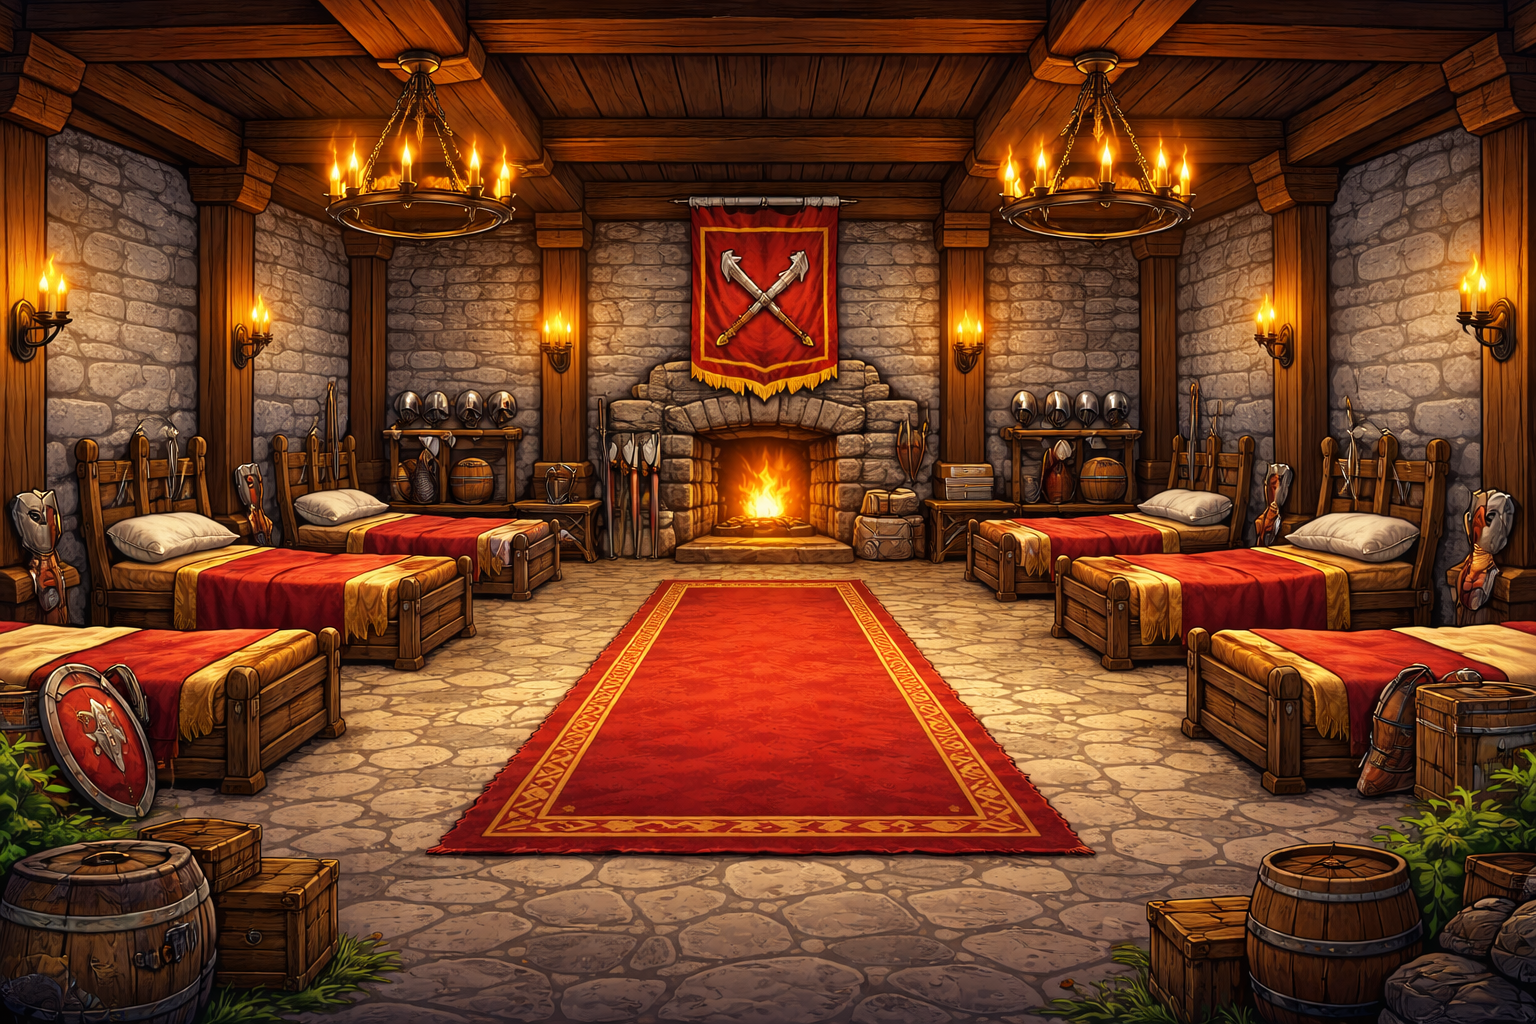
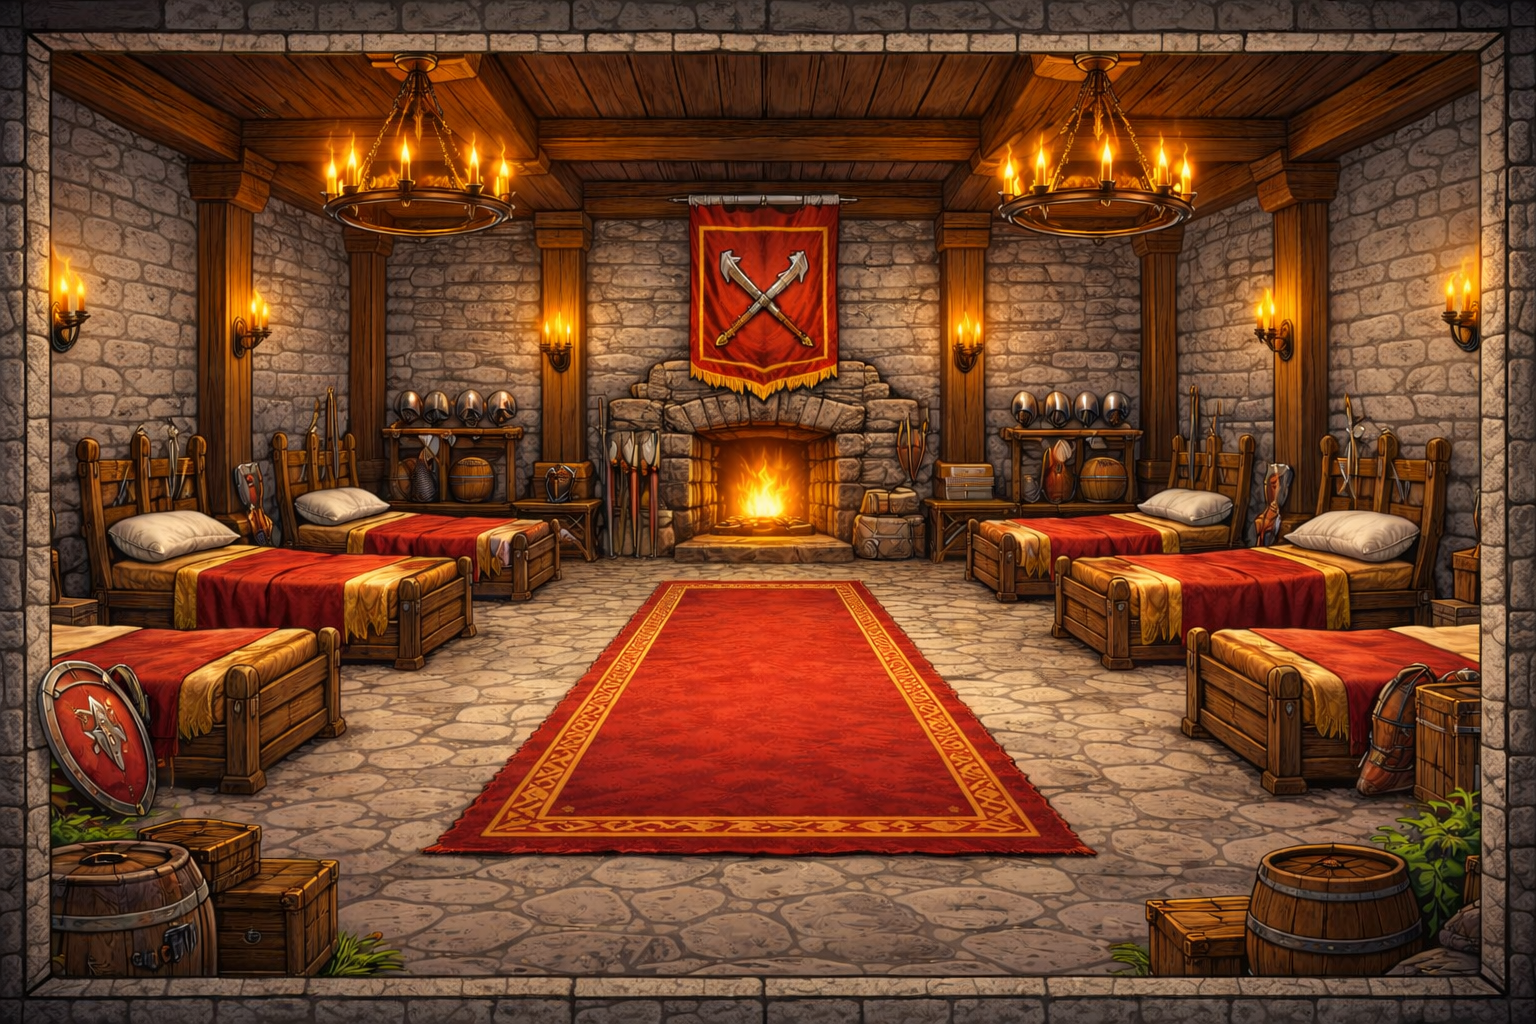
Zacatek Hradu

diff --git a/src/Obrazovky/Tlacitka/StylTlacitek.java b/src/Obrazovky/Tlacitka/StylTlacitek.java
@@ -39,21 +39,46 @@ public class StylTlacitek extends JButton {
         b.setBorderPainted(false);
     }
     public void nastavJakoObrazek(String cestaKObrazku, int sirka, int vyska) {
-        java.net.URL url = getClass().getResource(cestaKObrazku);
-        if (url != null) {
-            ImageIcon originalIkona = new ImageIcon(url);
+        try {
+            java.net.URL url = getClass().getResource(cestaKObrazku);
+            if (url != null) {
+                java.awt.Image original = javax.imageio.ImageIO.read(url);
+                java.awt.Image zmensenyObrazek = original.getScaledInstance(sirka, vyska, java.awt.Image.SCALE_SMOOTH);
+                this.setIcon(new javax.swing.ImageIcon(zmensenyObrazek));
+            } else {
+                System.out.println(cestaKObrazku);
+            }
 
 
-            Image zmensenyObrazek = originalIkona.getImage().getScaledInstance(sirka, vyska, java.awt.Image.SCALE_SMOOTH);
+            this.setText(null);
+            this.setBorderPainted(false);
+            this.setFocusPainted(false);
 
-            this.setIcon(new ImageIcon(zmensenyObrazek));
-        } else {
-            System.out.println("Obrázek tlačítka nenalezen: " + cestaKObrazku);
+
+            this.setContentAreaFilled(false);
+            this.setOpaque(false);
+            this.setPreferredSize(new java.awt.Dimension(sirka, vyska));
+
+        } catch (Exception e) {
+            System.out.println(  e.getMessage());
         }
-
-        this.setText(null);
-        this.setContentAreaFilled(false);
-        this.setBorderPainted(false);
-        this.setFocusPainted(false);
     }
+//    public void nastavJakoObrazek(String cestaKObrazku, int sirka, int vyska) {
+//        java.net.URL url = getClass().getResource(cestaKObrazku);
+//        if (url != null) {
+//            ImageIcon originalIkona = new ImageIcon(url);
+//
+//
+//            Image zmensenyObrazek = originalIkona.getImage().getScaledInstance(sirka, vyska, java.awt.Image.SCALE_SMOOTH);
+//
+//            this.setIcon(new ImageIcon(zmensenyObrazek));
+//        } else {
+//            System.out.println("Obrázek tlačítka nenalezen: " + cestaKObrazku);
+//        }
+//
+//        this.setText(null);
+//        this.setContentAreaFilled(false);
+//        this.setBorderPainted(false);
+//        this.setFocusPainted(false);
+//    }
 }

diff --git a/src/Obrazovky/ObrazovkaHradu.java b/src/Obrazovky/ObrazovkaHradu.java
@@ -16,8 +16,8 @@ public class ObrazovkaHradu extends Obrazovka{
         this.hrad = hrad;
         btnKasarna = new StylTlacitek("Kasárna");
         btnStavba = new StylTlacitek("Stavba");
-        btnKasarna.nastavJakoObrazek("/Obrazky/Barracks.png", 250, 150);
-        btnStavba.nastavJakoObrazek("/Obrazky/StavbaTlacitko.png", 200, 80);
+        btnKasarna.nastavJakoObrazek("/Obrazky/Barracks.png", 400, 225);
+        btnStavba.nastavJakoObrazek("/Obrazky/StavbaTlacitko.png", 280, 80);
     }
 
     @Override
